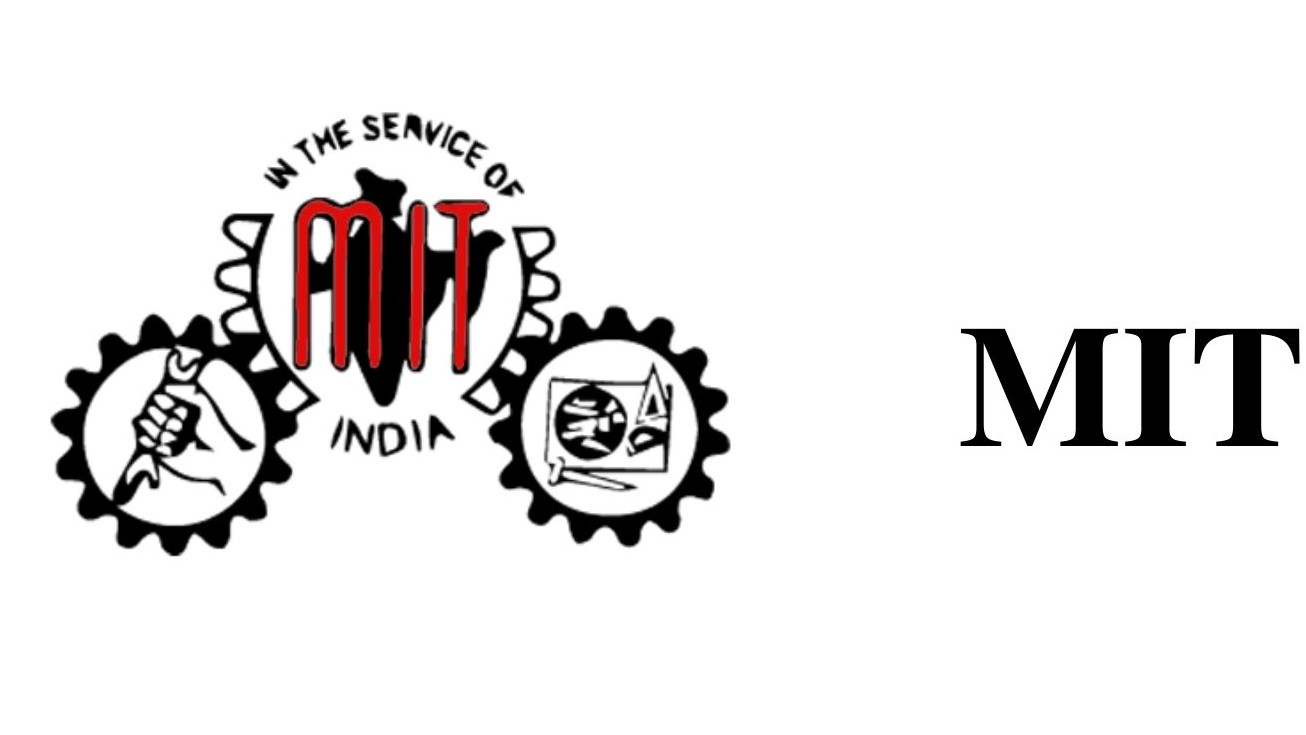
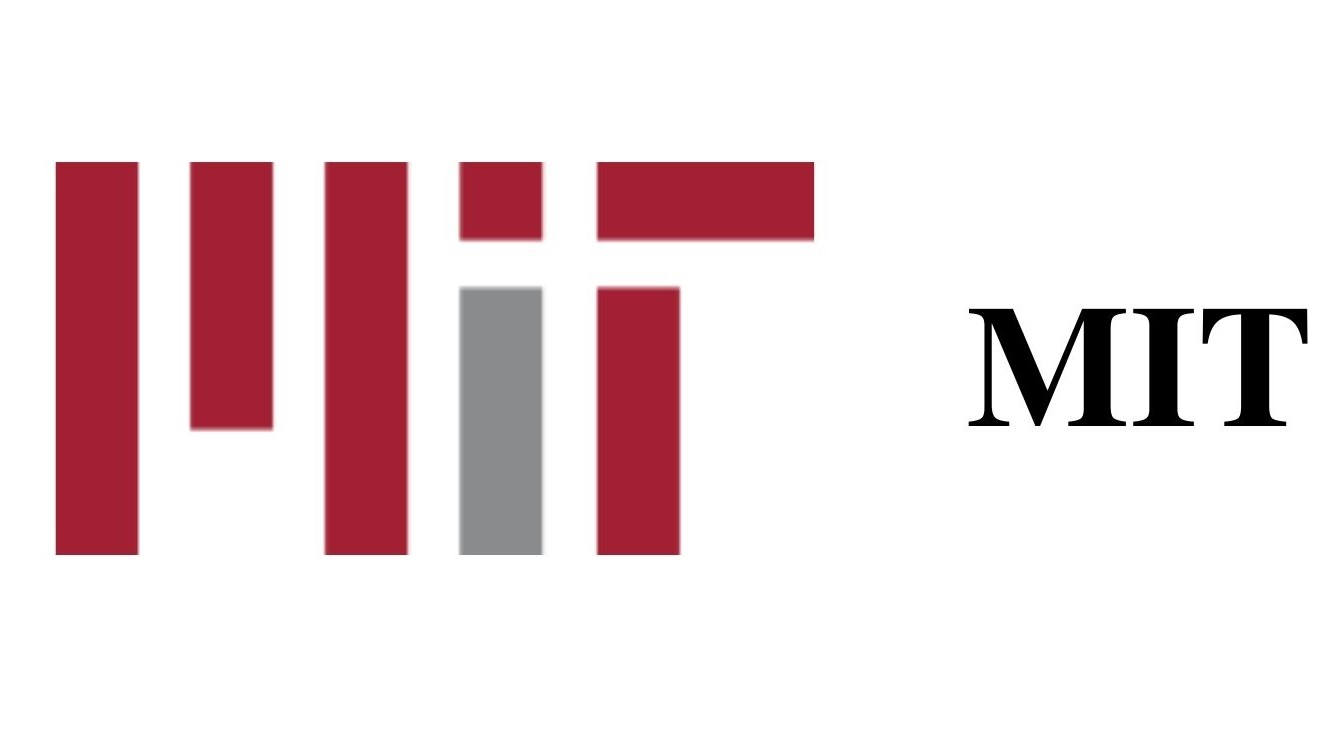
updated images

Changed region(s): [[0.0306, 0.1497, 0.6126, 0.7782], [0.7044, 0.3891, 1.0, 0.6286]]

diff --git a/templates/about.html b/templates/about.html
@@ -42,21 +42,21 @@
     <h1 class="w3-center">Our Partners</h1>
    <div class="w3-row">
      <div class="w3-third w3-padding w3-center" >
-      <img class="w3-image  w3-padding" src="{{ url_for('static', filename='images/mit.jpg') }}" >
-     </div>
-
-     <div class="w3-third w3-padding w3-center">
       <img class="w3-image  w3-padding" src="{{ url_for('static', filename='images/bombay.jpg') }}" >
      </div>
 
      <div class="w3-third w3-padding w3-center">
-      <img class="w3-image  w3-padding" src="{{ url_for('static', filename='images/chennai.jpg') }}" >
+      <img class="w3-image  w3-padding" src="{{ url_for('static', filename='images/madra.jpg') }}" >
+     </div>
+
+     <div class="w3-third w3-padding w3-center">
+      <img class="w3-image  w3-padding" src="{{ url_for('static', filename='images/de.jpg') }}" >
      </div>
    </div>
  
 <div class="w3-row">
   <div class="w3-third w3-padding w3-center">
-    <img class="w3-image w3-padding" src="{{ url_for('static', filename='images/kharagpur.jpg') }}" >
+    <img class="w3-image w3-padding" src="{{ url_for('static', filename='images/kanpur.jpg') }}" >
    </div>
 
    <div class="w3-third w3-padding w3-center">
@@ -64,7 +64,7 @@
    </div>
 
    <div class="w3-third w3-padding w3-center">
-    <img class="w3-image  w3-padding" src="{{ url_for('static', filename='images/delhi.jpg') }}" >
+    <img class="w3-image  w3-padding" src="{{ url_for('static', filename='images/mit.jpg') }}" >
    </div>
 </div>
 
